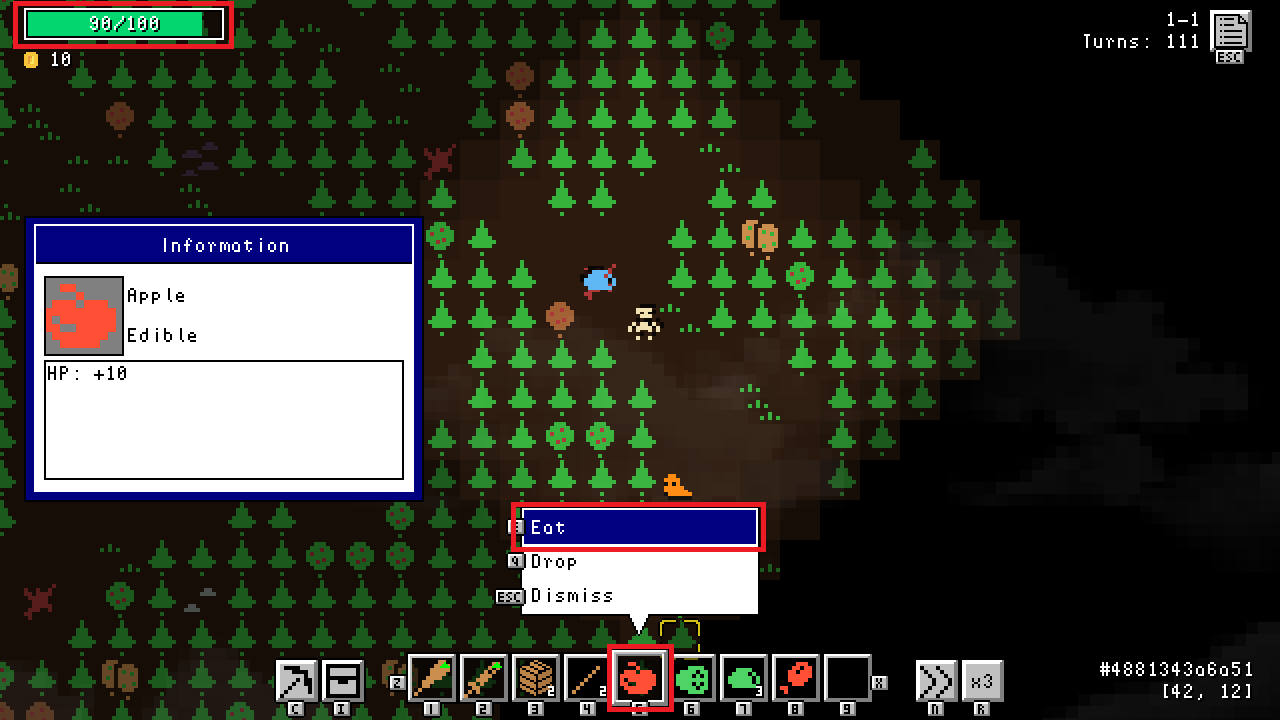
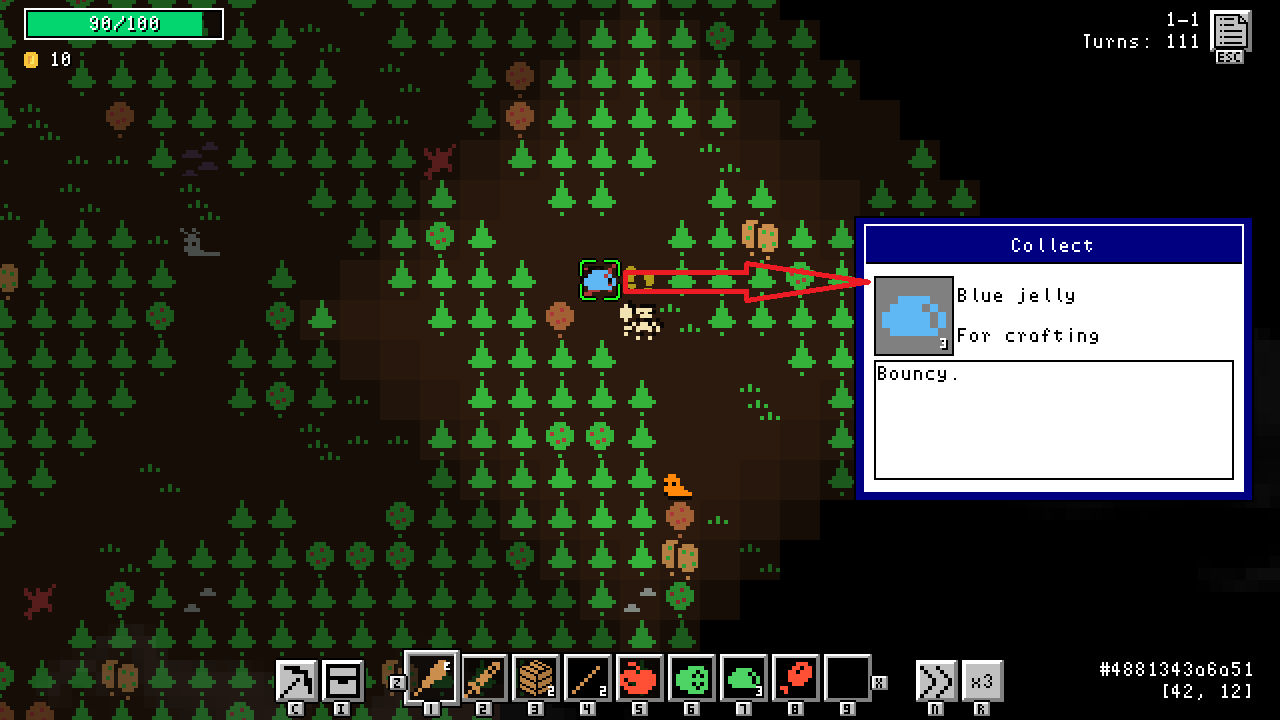
*Updated howto play of hdc.

diff --git a/games/hdc/howto.html b/games/hdc/howto.html
@@ -98,38 +98,45 @@
           <img src="imgs/howto7.png" class="box">
         </p>
         <p align="left">
+          Select to equip tools, weapons and spells.
+        </p>
+        <hr class="hr">
+        <p align="center">
+          <img src="imgs/howto8.png" class="box">
+        </p>
+        <p align="left">
           Click to harvest.
         </p>
         <p align="center">
-          <img src="imgs/howto8.png" class="box">
+          <img src="imgs/howto9.png" class="box">
         </p>
         <p align="left">
           Click to collect food ingredients.
         </p>
         <hr class="hr">
         <p align="center">
-          <img src="imgs/howto9.png" class="box">
+          <img src="imgs/howto10.png" class="box">
         </p>
         <p align="left">
           Click to battle.
         </p>
         <hr class="hr">
         <p align="center">
-          <img src="imgs/howto10.png" class="box">
+          <img src="imgs/howto11.png" class="box">
         </p>
         <p align="left">
           Click to collect materials dropped from enemies.
         </p>
         <hr class="hr">
         <p align="center">
-          <img src="imgs/howto11.png" class="box">
+          <img src="imgs/howto12.png" class="box">
         </p>
         <p align="left">
           Eat to heal yourself.
         </p>
         <hr class="hr">
         <p align="center">
-          <img src="imgs/howto12.png" class="box">
+          <img src="imgs/howto13.png" class="box">
         </p>
         <p align="left">
           Find portal to step into next stage.
